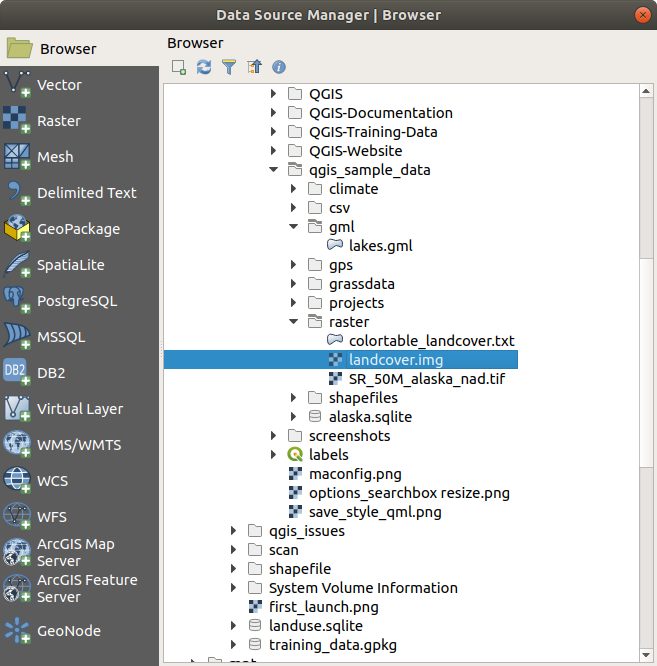
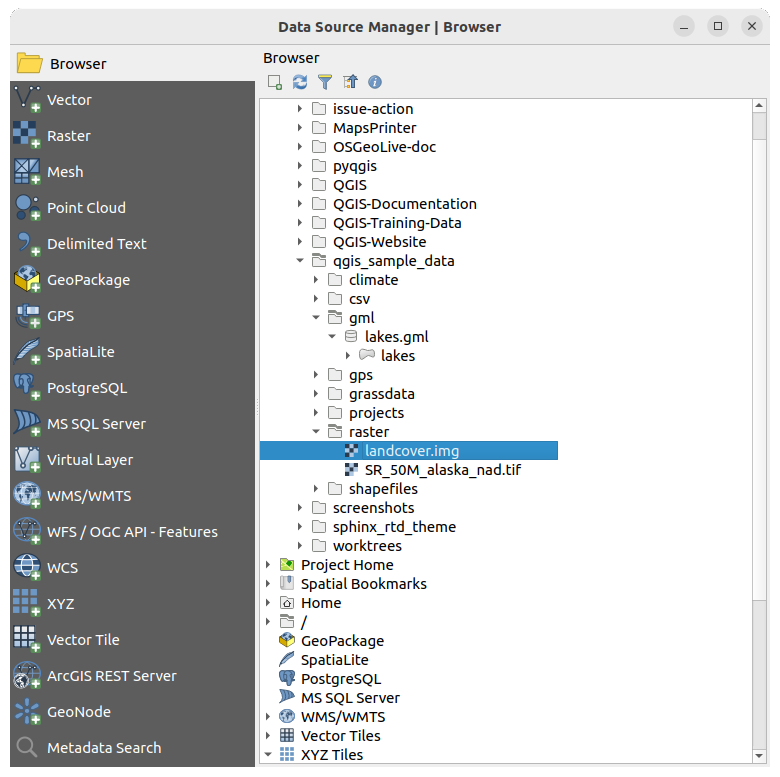
Update gml file loading in the "Getting started"

diff --git a/docs/user_manual/introduction/getting_started.rst b/docs/user_manual/introduction/getting_started.rst
@@ -147,7 +147,7 @@ Where :file:`qgis_sample_data` represents the path to the unzipped dataset.
    #. Click on the |dataSourceManager| :sup:`Open Data Source Manager` icon.
       The Data Source Manager should open in Browser mode.
    #. Browse to the folder :file:`qgis_sample_data/raster/`
-   #. Select the ERDAS IMG file :file:`landcover.img` and double-click it.
+   #. Select the ERDAS IMG file |rasterLayer| :guilabel:`landcover.img` and double-click it.
       The landcover layer is added in the background while the Data Source
       Manager window remains open.
 
@@ -159,10 +159,25 @@ Where :file:`qgis_sample_data` represents the path to the unzipped dataset.
          Adding data to a new project in QGIS
 
    #. To load the lakes data, browse to the folder :file:`qgis_sample_data/gml/`,
-      and double-click the :file:`lakes.gml` file to open it.
-   #. A :guilabel:`Coordinate Reference System Selector` dialog opens. In the
-      :guilabel:`Filter` menu, type ``2964``, filtering the list of Coordinate
-      Reference Systems below.
+      and drag and drop the |dbSchema| :guilabel:`lakes.gml` file over QGIS main dialog.
+   #. The :guilabel:`Select Items to Add` dialog opens, scanning the file.
+      This is due to :file:`.gml` file format being able to store more than one layer at a time.
+
+      .. _figure_selectitems:
+
+      .. figure:: img/addLayerItems.png
+         :align: center
+
+         Select layers within a file
+
+   #. In our case there is a single |polygonLayer| :guilabel:`lakes` layer.
+      Select it and press :guilabel:`Add Layers`.
+   #. The layer is added to the :guilabel:`Layers` panel but it displays
+      |indicatorNoCRS| :sup:`Layer has no coordinate reference system set` next to it.
+      Let's adjust that by clicking the icon.
+   #. A :guilabel:`Coordinate Reference System Selector` dialog opens.
+      In the :guilabel:`Filter` menu, type ``2964``,
+      filtering the list of Coordinate Reference Systems below.
 
       .. _figure_selectCRS:
 
@@ -257,7 +272,11 @@ features and settings, and how to use them.
    :width: 1.3em
 .. |dataSourceManager| image:: /static/common/mActionDataSourceManager.png
    :width: 1.5em
+.. |dbSchema| image:: /static/common/mIconDbSchema.png
+   :width: 1.5em
 .. |fileSave| image:: /static/common/mActionFileSave.png
+   :width: 1.5em
+.. |indicatorNoCRS| image:: /static/common/mIndicatorNoCRS.png
    :width: 1.5em
 .. |labelingSingle| image:: /static/common/labelingSingle.png
    :width: 1.5em
@@ -265,6 +284,10 @@ features and settings, and how to use them.
    :width: 1em
 .. |osx| image:: /static/common/osx.png
    :width: 1em
+.. |polygonLayer| image:: /static/common/mIconPolygonLayer.png
+   :width: 1.5em
+.. |rasterLayer| image:: /static/common/mIconRasterLayer.png
+   :width: 1.5em
 .. |saveMapAsImage| image:: /static/common/mActionSaveMapAsImage.png
    :width: 1.5em
 .. |symbology| image:: /static/common/symbology.png
